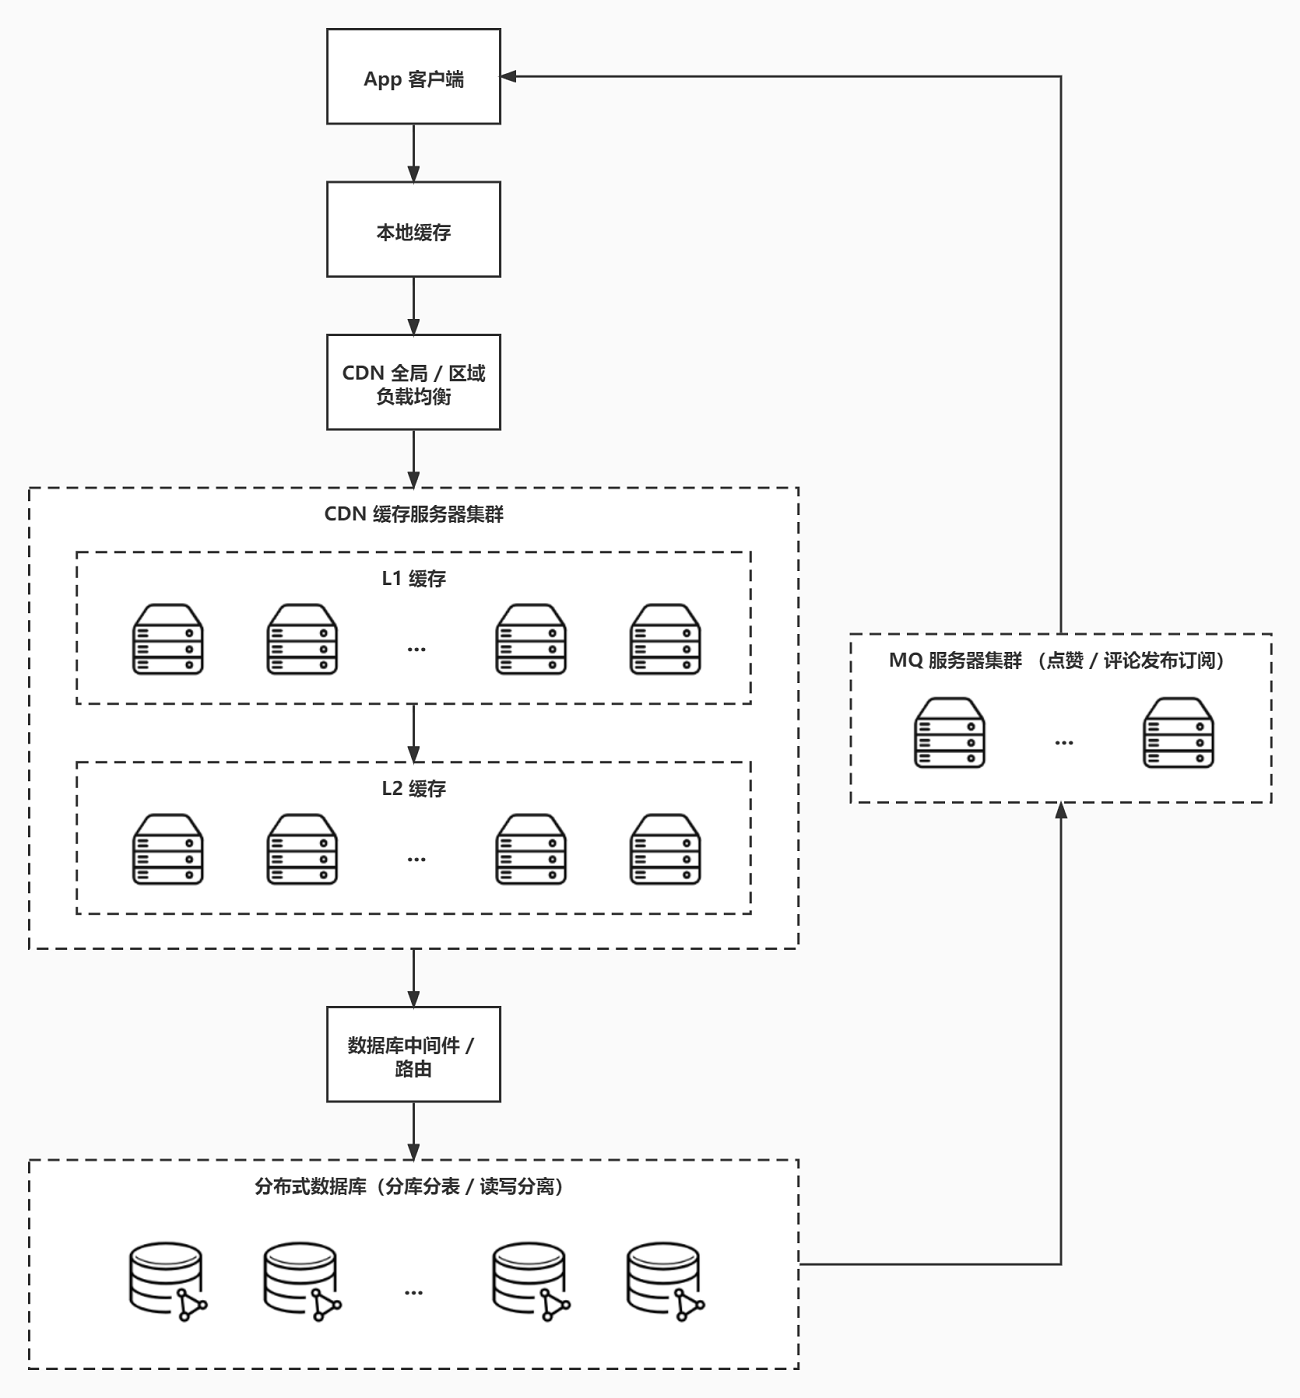
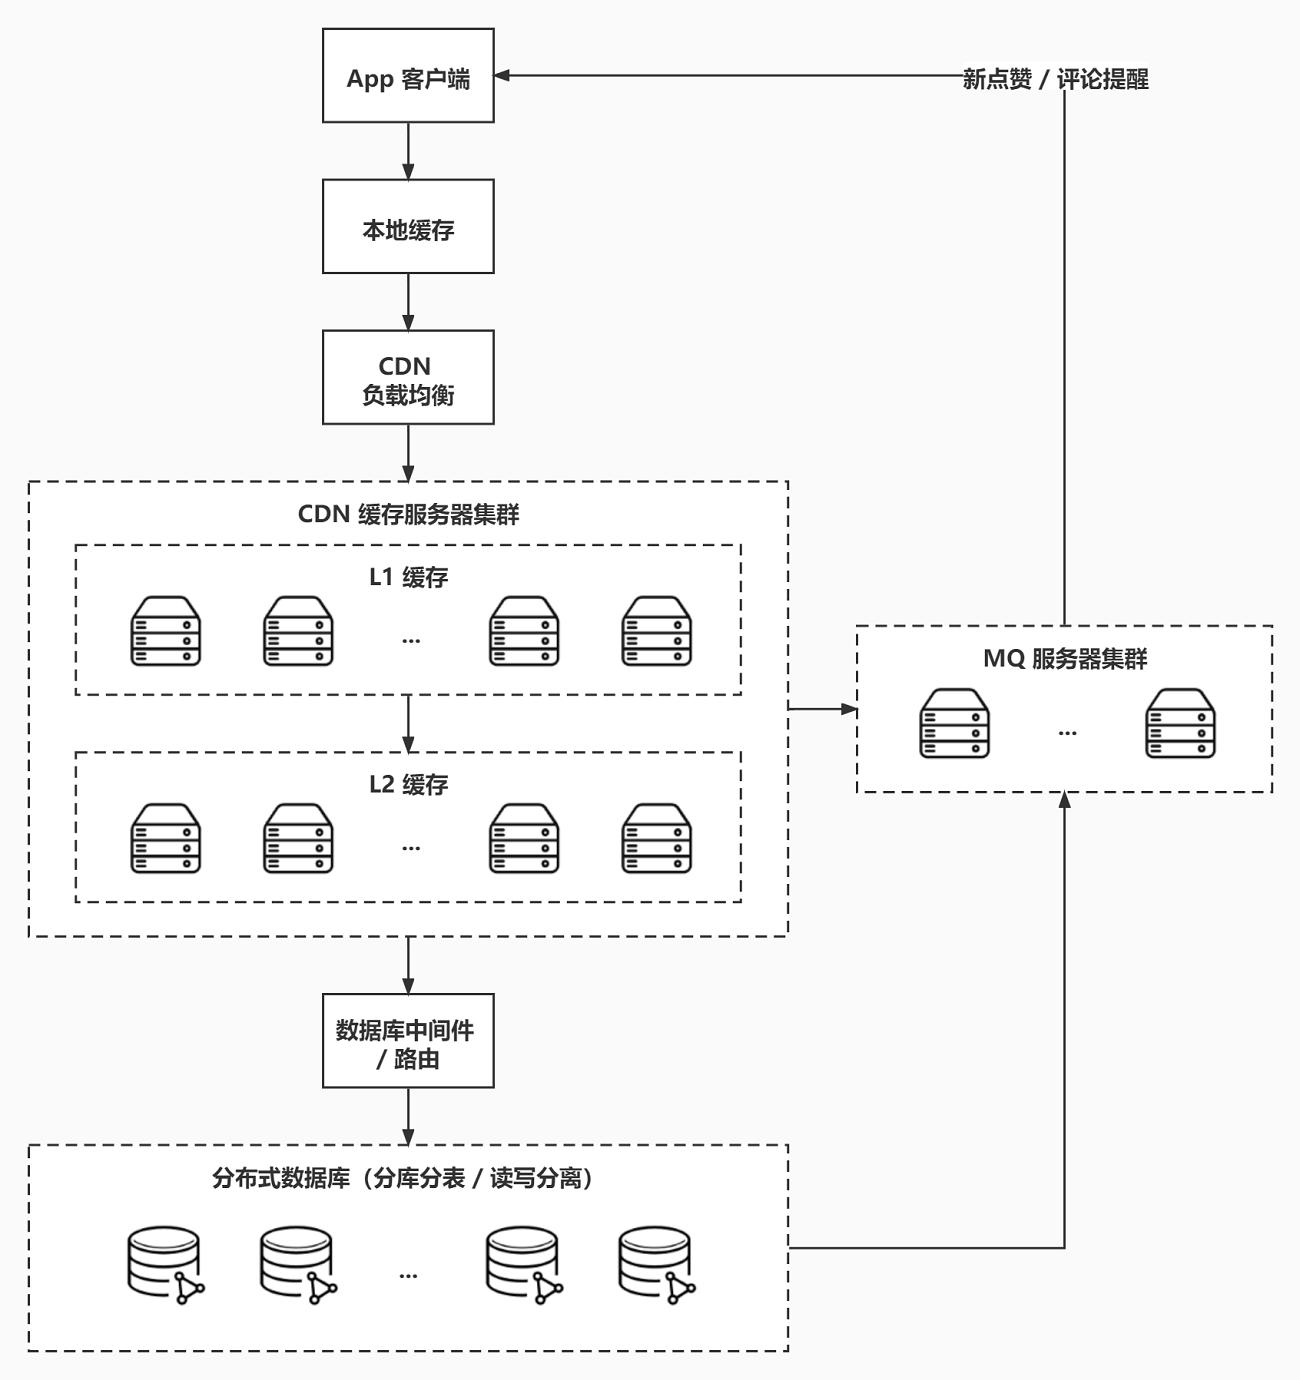
add more content

diff --git a/week02/README.md b/week02/README.md
@@ -70,9 +70,39 @@ https://www.phdmedia.com/phd-insight-wechat-infographic/ *2019-03-26*
 
 ![](https://github.com/yifeisg/thinking-in-architecture/blob/main/week02/wechat_moments_design.jpg)
 
+### 看朋友圈
+
+考虑到朋友圈 QPS 的量级，整个访问链路设计了三级缓存，以减少图片和视频请求对数据库端的压力：
+
+1. 客户端本地如果有朋友圈内容的缓存，则直接读取，否则执行下一步；
+2. 尝试从 CDN L1 回源。如果 L1 有该内容的缓存，则拉取，同时缓存到本地，否则执行下一步；
+3. 尝试从 CDN L2 回源。如果 L2 有该内容的缓存，则拉取，同时缓存到 CDN L1 及本地，否则执行下一步；
+4. 从数据库读取内容，并依次缓存到 CDN L2，CDN L1 及本地。
+
+考虑到朋友圈是典型的读多写少场景，且对数据的实时性要求并不是特别严苛，对数据库进行了读写分离，使大量并发的读操作不会降低写操作的执行速度。
+
+### 发朋友圈
+
+为了分担数据库端的压力，用户发表的内容会首先缓存到本地，若失败则回滚。
+
+新发布的朋友圈通常都会被好友拉取，因此可以考虑将该条记录依次缓存到 CDN L1、CDN L2 中，并最终在数据库做持久化保存。
+
+为了方便对庞大的并发读请求进行分流，设计数据库时应考虑通过用户注册所在地或其他相关信息进行分库分表，使写操作可以就近写入数据库机房。
+
+以上同样适用于发布点赞和评论。
+
+### 点赞评论
+
+看朋友圈是典型的 pull 模式，而收到对自己发布内容的新增点赞和评论的提醒，则是典型的 push 模式。因此考虑使用消息队列集群来实现类似提醒的发布。
+
+当用户与 MQ 服务器保持长连接（即打开微信时），新增点赞 / 评论将直接弹出提醒；若用户此时未登陆微信，则消息被保存在 broker 中，下次登陆时进行批量提醒。
+
 ## 拓展阅读
 
 浅析分布式主从架构下数据一致性问题 https://juejin.cn/post/6969229960515059743
 
 CDN是什么？使用CDN有什么优势？ - 阿里巴巴淘系技术的回答 - 知乎 https://www.zhihu.com/question/36514327/answer/1604554133
 
+MySQL · 引擎特性 · Group Replication内核解析 http://mysql.taobao.org/monthly/2017/08/01/
+
+一线大厂都在用的异地多活的 5 种解决方案 https://zhuanlan.zhihu.com/p/339719447
